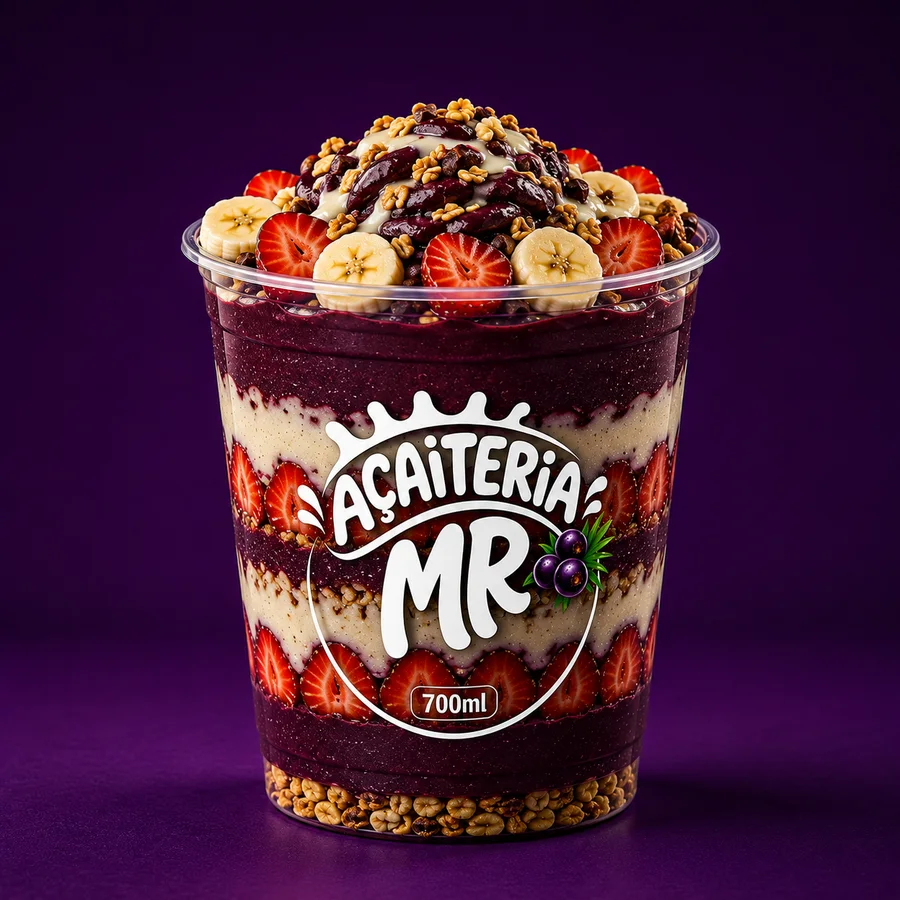
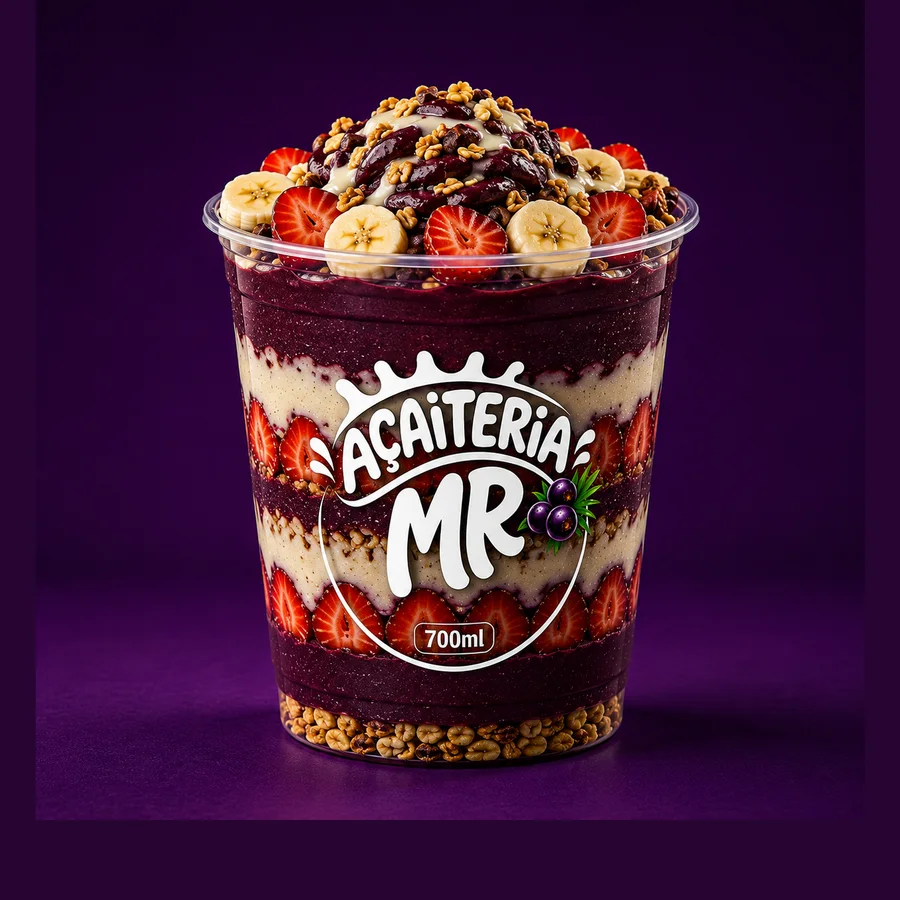
fix(imagens): normaliza a escala dos copos nas fotos de produto

diff --git a/README.md b/README.md
@@ -66,6 +66,11 @@ cd site
 npm run images
 ```
 
+As fotos de produto (`product: true` no script) passam por
+`scripts/normalize-product.mjs`, que mede o copo dentro da foto e reenquadra
+todas na mesma escala — o produto sempre ocupa ~82% da altura. Isso resolve o
+fato de cada foto vir do estúdio com um zoom diferente.
+
 Isso produz `public/imagem/`: fotos de produto em WebP 900px (com o fundo roxo do estúdio, exibidas em quadro `object-cover`), logo em WebP
 256px, ícone PNG 192px e a imagem de compartilhamento `og.jpg` (1200x630).
 Para adicionar a foto de um novo produto, jogue o original em
